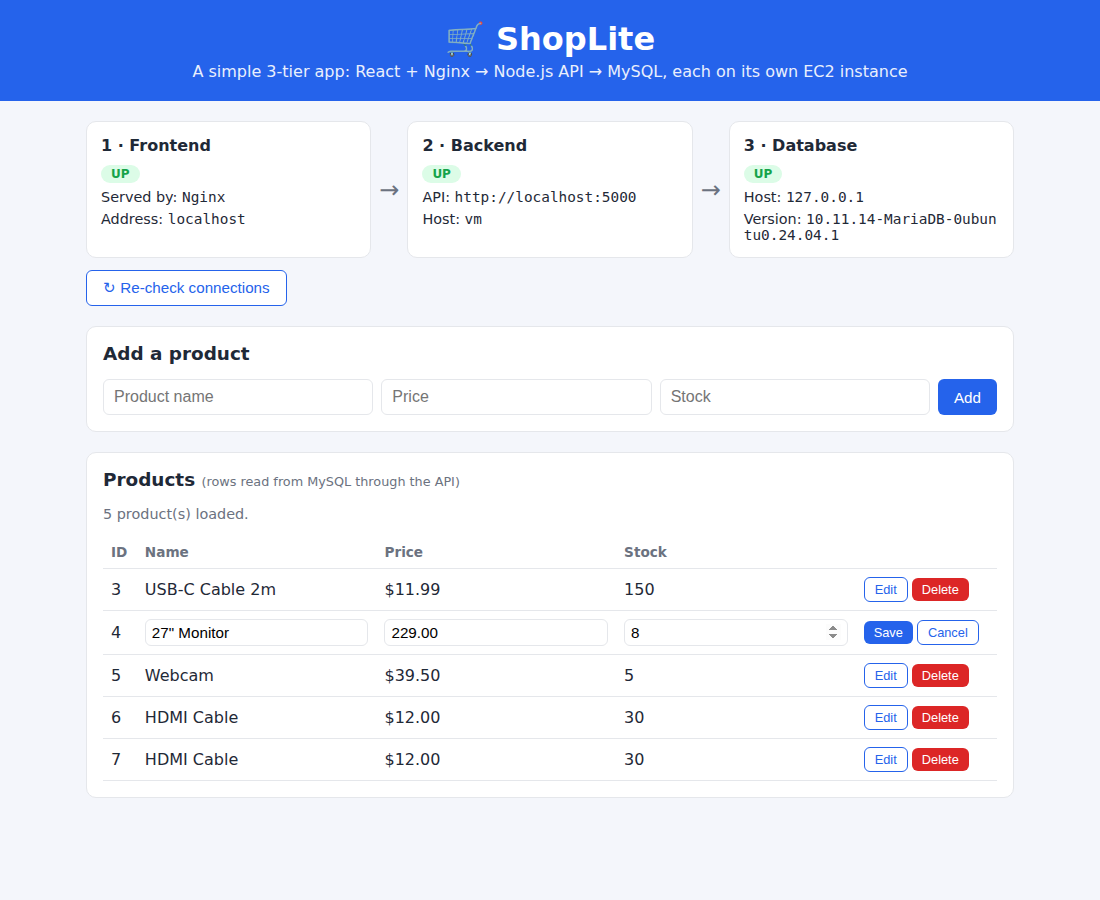
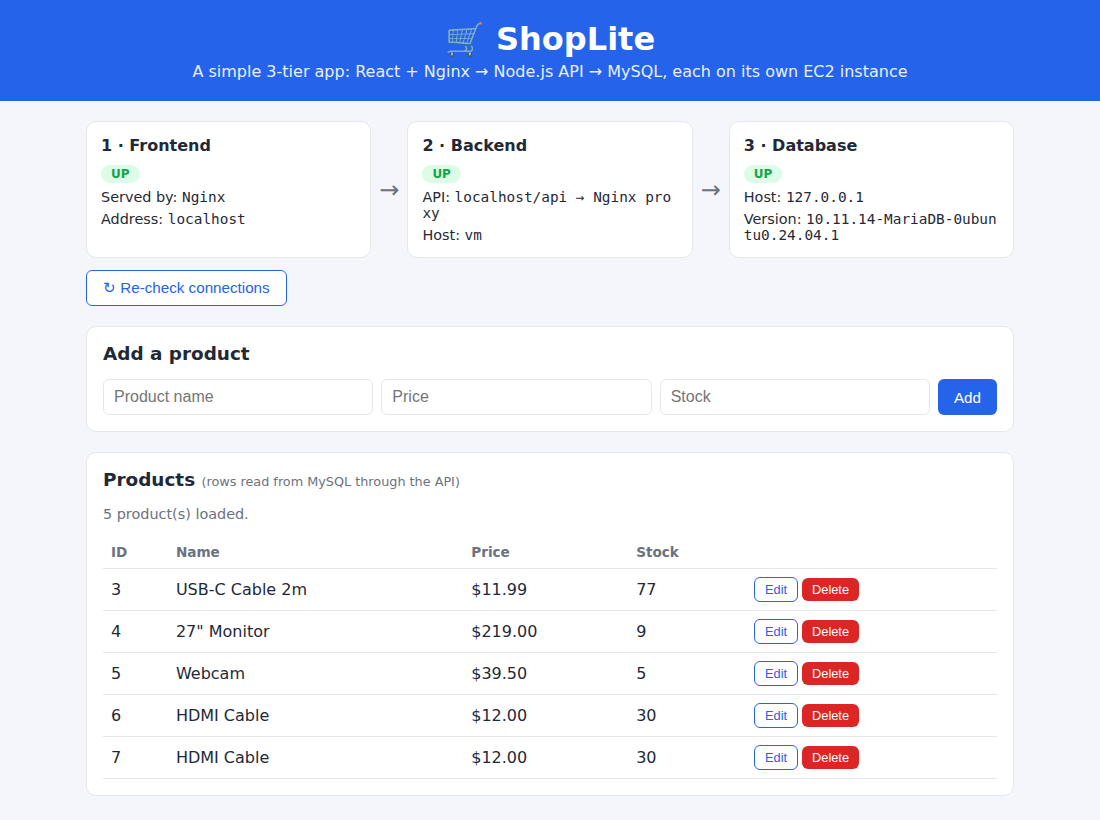
Frontend: call the API through an Nginx /api reverse proxy
The browser runs outside AWS and cannot reach the backend's private IP,
so building with VITE_API_URL=http://172.31.x.x:5000 broke the UI even
though curl on EC2 worked. Nginx now proxies /api/ to the backend's
private IP and the React app calls /api on the same origin by default
(VITE_API_URL empty). Vite dev server proxies /api too. Non-JSON error
pages (e.g. Nginx 502) now show as a clean HTTP error in the UI.
README: new traffic diagram, security group rule 5000 from sg-frontend,
proxy setup steps, demos and troubleshooting.

Claude-Session: https://claude.ai/code/session_01LJyaeKf8EPr17uSUA8QjY8

diff --git a/frontend/src/api.js b/frontend/src/api.js
@@ -1,16 +1,19 @@
 // VITE_API_URL comes from frontend/.env and is baked in at BUILD time (npm run build).
-// The browser calls the backend directly at this address.
-export const API_URL = (import.meta.env.VITE_API_URL || 'http://localhost:5000').replace(/\/$/, '');
+// Empty (default): calls go to /api on the same server, and Nginx proxies them
+// to the backend. Otherwise the browser calls the backend directly at this URL.
+export const API_URL = (import.meta.env.VITE_API_URL || '').replace(/\/$/, '');
 
 async function request(path, options) {
   const res = await fetch(API_URL + path, options);
-  const data = await res.json();
+  // Nginx returns an HTML page (not JSON) for errors like 502 Bad Gateway
+  const data = await res.json().catch(() => ({ error: `HTTP ${res.status} ${res.statusText}` }));
   if (!res.ok) throw new Error(data.error || `HTTP ${res.status}`);
   return data;
 }
 
 export const getHealth = async () => {
-  // /api/health answers 503 when the DB is down but still sends useful JSON
+  // /api/health answers 503 when the DB is down but still sends useful JSON.
+  // Anything that isn't JSON (e.g. Nginx 502) means the backend is unreachable.
   const res = await fetch(API_URL + '/api/health');
   return res.json();
 };

diff --git a/frontend/src/App.jsx b/frontend/src/App.jsx
@@ -40,7 +40,7 @@ function TierStatus({ onRecheck }) {
         <div className="tier">
           <h2>2 · Backend</h2>
           <Badge up={reachable} />
-          <p>API: <code>{API_URL}</code></p>
+          <p>API: <code>{API_URL || window.location.host + '/api → Nginx proxy'}</code></p>
           <p>Host: <code>{reachable === false ? 'unreachable' : health?.backend.hostname || '-'}</code></p>
         </div>
         <div className="arrow">→</div>

diff --git a/frontend/vite.config.js b/frontend/vite.config.js
@@ -3,4 +3,10 @@ import react from '@vitejs/plugin-react';
 
 export default defineConfig({
   plugins: [react()],
+  server: {
+    // `npm run dev` only: forward /api to a local backend, like Nginx does in production
+    proxy: {
+      '/api': 'http://localhost:5000',
+    },
+  },
 });

diff --git a/README.md b/README.md
@@ -21,35 +21,43 @@ turn **DOWN**.
 ## How the traffic flows
 
 ```
-                 Internet
-                    │
-     ┌──────────────┴───────────────┐
-     │ (1) GET page                 │ (2) fetch() API calls from the browser
-     ▼                              ▼
-┌──────────────┐            ┌──────────────┐   (3) SQL over     ┌──────────────┐
-│  FRONTEND    │            │   BACKEND    │   PRIVATE IP       │   DATABASE   │
-│  EC2 :80     │            │   EC2 :5000  │ ─────────────────► │   EC2 :3306  │
-│  public IP   │            │  public IP   │                    │  no public   │
-└──────────────┘            └──────────────┘                    │  access      │
-                                                                └──────────────┘
+   Your browser (on the internet)
+          │
+          │ (1) http://FRONTEND_PUBLIC_IP/            → the React app
+          │ (2) http://FRONTEND_PUBLIC_IP/api/...     → API calls
+          ▼
+┌──────────────────┐ (3) /api/... over  ┌──────────────┐ (4) SQL over  ┌──────────────┐
+│  FRONTEND EC2    │     PRIVATE IP     │  BACKEND EC2 │  PRIVATE IP   │ DATABASE EC2 │
+│  Nginx :80       │ ─────────────────► │  Node :5000  │ ────────────► │ MySQL :3306  │
+│  public IP       │                    │              │               │              │
+└──────────────────┘                    └──────────────┘               └──────────────┘
 ```
 
 1. The browser downloads the built React app (HTML/JS/CSS) from **Nginx** on the
-   frontend server (`http://FRONTEND_PUBLIC_IP`).
-2. The JavaScript **in the browser** calls the **backend** on its **public IP**
-   (`http://BACKEND_PUBLIC_IP:5000`). That's why the backend has to be reachable
-   from the internet, and why it sends CORS headers.
-3. The backend connects to MySQL using the database's **private IP**. The database
-   is never exposed to the internet.
+   frontend server.
+2. The React code calls **`/api/...` on the same server** it was loaded from.
+3. Nginx **reverse-proxies** every `/api/` request to the backend's **private IP**
+   (`location /api/` in `frontend/nginx/shoplite.conf`).
+4. The backend connects to MySQL using the database's **private IP**.
+
+**Why a proxy?** The React code runs in the viewer's **browser**, outside AWS. A
+browser can't reach private IPs like `172.31.x.x`. So `curl http://172.31.x.x:5000`
+works *on an EC2*, but the same URL fails from the UI. With the proxy, only Nginx
+talks to the backend, over the VPC's private network.
+
+> The backend can **still** be opened directly at `http://BACKEND_PUBLIC_IP:5000/api/products`
+> if you allow port 5000 from the internet. That's handy for demoing the API with
+> a browser, curl or Postman, but the UI doesn't need it.
 
 ### Build time vs run time (worth explaining on camera)
 
 - **Backend:** `.env` is read **every time the app starts** (`server.js` loads it with `dotenv`). Change it, then
   `systemctl restart shoplite-backend`. No rebuild.
-- **Frontend:** `VITE_API_URL` in `frontend/.env` is **baked into the JavaScript
-  when you run `npm run build`**. Nginx only serves the finished files and knows
-  nothing about `.env`. If the backend IP changes, you must **rebuild and copy
-  `dist/` again**.
+- **Frontend (React):** anything in `frontend/.env` (`VITE_API_URL`) is **baked
+  into the JavaScript when you run `npm run build`**. That's why the default leaves it
+  empty and uses the Nginx proxy instead.
+- **Nginx:** the backend's private IP lives in the Nginx config. If it changes,
+  edit the config and `sudo systemctl reload nginx`. No rebuild.
 
 ---
 
@@ -74,8 +82,8 @@ shoplite/
     │   └── style.css
     ├── package.json
     ├── vite.config.js
-    ├── .env.example                # VITE_API_URL=http://BACKEND_PUBLIC_IP:5000
-    └── nginx/shoplite.conf         # Nginx site config
+    ├── .env.example                # VITE_API_URL (empty = use the Nginx /api proxy)
+    └── nginx/shoplite.conf         # Nginx site config + /api reverse proxy
 ```
 
 ### API endpoints
@@ -117,19 +125,20 @@ security group** (not an IP) is a good concept to teach.
 | `sg-frontend` | SSH 22 | My IP |
 |  | HTTP **80** | `0.0.0.0/0` |
 | `sg-backend` | SSH 22 | My IP |
-|  | Custom TCP **5000** | `0.0.0.0/0` (browsers call it directly) |
+|  | Custom TCP **5000** | **`sg-frontend`** (Nginx proxies `/api` to it) |
+|  | Custom TCP **5000** *(optional)* | `0.0.0.0/0`, only to demo the API from your laptop |
 | `sg-db` | SSH 22 | My IP |
 |  | MySQL/Aurora **3306** | **`sg-backend`** (only the backend can reach the DB) |
 
 Write down these IPs; you'll need them below:
 
 - `DB_PRIVATE_IP`: private IPv4 of `shoplite-db`
-- `BACKEND_PUBLIC_IP`: public IPv4 of `shoplite-backend`
+- `BACKEND_PRIVATE_IP`: private IPv4 of `shoplite-backend` (used in the Nginx config)
+- `BACKEND_PUBLIC_IP`: public IPv4 of `shoplite-backend` (only for SSH and API demos)
 - `FRONTEND_PUBLIC_IP`: public IPv4 of `shoplite-frontend`
 
-> Public IPs change when you **stop/start** an instance. If the backend's IP
-> changes, update `VITE_API_URL` and rebuild the frontend, or attach an Elastic IP
-> to the backend.
+> Public IPs change when you **stop/start** an instance; private IPs don't. The
+> app only uses private IPs between servers, so a restart doesn't break it.
 
 Get the code onto each server with `git clone` (below) or `scp`.
 
@@ -215,7 +224,8 @@ sudo systemctl status shoplite-backend
 journalctl -u shoplite-backend -f          # live logs (Ctrl+C to exit)
 ```
 
-**Test from the internet** (your laptop's browser or terminal):
+**Test from the internet** (your laptop's browser or terminal). This needs the optional
+`0.0.0.0/0` rule on port 5000 in `sg-backend`:
 
 ```
 http://BACKEND_PUBLIC_IP:5000/api/health
@@ -237,12 +247,10 @@ git clone https://github.com/awsdevop183/shoplite.git
 cd shoplite/frontend
 ```
 
-**1. Point the app at the backend, then build it:**
+**1. Build the React app:**
 
 ```bash
-cp .env.example .env
-nano .env                  # VITE_API_URL=http://BACKEND_PUBLIC_IP:5000
-
+cp .env.example .env       # leave VITE_API_URL empty: the app will call /api on Nginx
 npm install
 npm run build              # creates dist/ with index.html + assets/*.js, *.css
 ls dist dist/assets
@@ -255,21 +263,28 @@ sudo mkdir -p /var/www/shoplite
 sudo cp -r dist/* /var/www/shoplite/
 ```
 
-**3. Configure Nginx to serve it:**
+**3. Configure Nginx to serve it and proxy `/api` to the backend:**
 
 ```bash
+# Put the backend's PRIVATE IP into the config (e.g. 172.31.11.109)
+sed -i 's/BACKEND_PRIVATE_IP/172.31.11.109/' nginx/shoplite.conf
+grep proxy_pass nginx/shoplite.conf           # check: proxy_pass http://172.31.11.109:5000;
+
 sudo cp nginx/shoplite.conf /etc/nginx/sites-available/shoplite
 sudo ln -s /etc/nginx/sites-available/shoplite /etc/nginx/sites-enabled/
 sudo rm /etc/nginx/sites-enabled/default      # remove the welcome page site
 
 sudo nginx -t                                 # always test the config first
 sudo systemctl reload nginx
+
+# Test the proxy from the frontend server itself
+curl http://localhost/api/health
 ```
 
 Nginx is already a systemd service (installed and enabled by apt), so the
 frontend needs no service file of its own. It starts on boot automatically.
 
-**Redeploying after a code or `.env` change:**
+**Redeploying after a code change:**
 
 ```bash
 cd ~/shoplite && git pull
@@ -300,12 +315,12 @@ sudo mysql -e "SELECT * FROM shoplite.products;"
 | Backend down | `sudo systemctl stop shoplite-backend` | Backend and DB cards turn **DOWN** |
 | DB down | `sudo systemctl stop mysql` on DB server | Backend **UP**, Database **DOWN** (`ECONNREFUSED`) |
 | Security groups matter | Remove the 3306 rule from `sg-db` | Database **DOWN**, error `ETIMEDOUT` |
-| Security groups matter | Remove the 5000 rule from `sg-backend` | Browser can't reach the API, so Backend **DOWN** |
+| Security groups matter | Remove the 5000-from-`sg-frontend` rule in `sg-backend` | Nginx can't reach the backend: Backend **DOWN**, `HTTP 504` after the timeout |
+| Reverse proxy | Browser DevTools → Network while using the app | All calls go to `FRONTEND_PUBLIC_IP/api/...`, never to port 5000 |
+| Private IPs vs browser | Build with `VITE_API_URL=http://BACKEND_PRIVATE_IP:5000` | `curl` on EC2 works but the UI fails: the browser can't reach private IPs |
 | DB is private | From your laptop: `mysql -h DB_PUBLIC_IP ...` | Times out, since only `sg-backend` is allowed |
-| Build-time config | Put a wrong IP in frontend `.env`, rebuild, copy `dist/` | Backend shows **DOWN** in the UI |
-| Built files are static | `ls /var/www/shoplite/assets`, then `grep -o 'http://[0-9.]*:5000' /var/www/shoplite/assets/*.js` | The backend IP is inside the built JS |
 | Logs | `journalctl -u shoplite-backend -f` while clicking | Every API request is logged |
-| Nginx logs | `sudo tail -f /var/log/nginx/shoplite.access.log` | Every page and asset request |
+| Nginx logs | `sudo tail -f /var/log/nginx/shoplite.access.log` | Every page, asset and `/api` request |
 
 ---
 
@@ -316,7 +331,10 @@ sudo mysql -e "SELECT * FROM shoplite.products;"
 | Page doesn't load at all | `systemctl status nginx`; port 80 open in `sg-frontend`? Using `http://`, not `https://`? |
 | Nginx welcome page shows | `default` site still enabled. Remove `/etc/nginx/sites-enabled/default`, then reload |
 | `403 Forbidden` or blank page | `dist/` not copied: `ls /var/www/shoplite` should show `index.html` and `assets/` |
-| Backend card **DOWN** | `VITE_API_URL` correct? Rebuilt **and** re-copied `dist/` after editing? Port 5000 open in `sg-backend`? |
+| Backend card **DOWN**, `HTTP 502` | Nginx reached the backend's IP but nothing listens on 5000: `systemctl status shoplite-backend` |
+| Backend card **DOWN**, `HTTP 504` or long wait | Nginx can't reach the backend: `sg-backend` allows 5000 from `sg-frontend`? Right private IP in `proxy_pass`? Test with `curl http://BACKEND_PRIVATE_IP:5000/api/health` **on the frontend EC2** |
+| Backend card **DOWN**, `Failed to fetch` | The built JS calls a URL the browser can't reach. `frontend/.env` must have `VITE_API_URL=` **empty** (or the backend's **public** IP, never `172.31.x.x`). Rebuild and re-copy `dist/` |
+| `nginx -t`: host not found in upstream | You didn't replace `BACKEND_PRIVATE_IP` in the config |
 | Database **DOWN** with `ETIMEDOUT` | `sg-db` allows 3306 from `sg-backend`? `DB_HOST` is the DB's **private** IP? |
 | Database **DOWN** with `ECONNREFUSED` | MySQL running? `bind-address = 0.0.0.0` set and MySQL restarted? |
 | Database card shows host `localhost` | The backend didn't get `DB_HOST`. Is `.env` in `/opt/shoplite-backend/` (next to `server.js`)? Line must be exactly `DB_HOST=172.31.x.x` (no spaces, quotes or `export`). Pulled the latest code and ran `npm install`? Then `sudo systemctl restart shoplite-backend` and check `journalctl -u shoplite-backend -n 5` for the `Database:` line |
@@ -349,15 +367,14 @@ DB_HOST=127.0.0.1 DB_PASSWORD='ChangeMe123!' node server.js
 
 # Frontend (new terminal): Vite dev server with hot reload
 cd frontend && npm install
-echo "VITE_API_URL=http://localhost:5000" > .env
-npm run dev
+npm run dev                # proxies /api to localhost:5000 (see vite.config.js)
 # open http://localhost:5173
 ```
 
 ## Going further (later lessons)
 
 - Add **HTTPS** with a domain name and Let's Encrypt (`certbot --nginx`).
-- Move the backend into a **private subnet** behind an **ALB**, and have Nginx proxy `/api` so the backend needs no public IP.
+- Move the backend into a **private subnet** behind an **ALB**, and point Nginx's `proxy_pass` at the ALB.
 - Replace the DB EC2 with **Amazon RDS**.
 - Store `DB_PASSWORD` in **SSM Parameter Store / Secrets Manager**.
 - Automate all of this with **user data**, **Ansible**, or **Terraform**.
